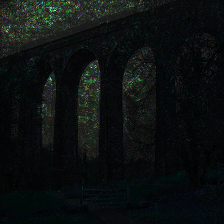
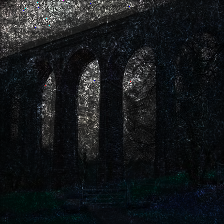
better picture

diff --git a/Project/optional task2/integrated_gradients.py b/Project/optional task2/integrated_gradients.py
@@ -50,21 +50,25 @@ if __name__ == "__main__":
     output = ig.attribute(input_tensor.unsqueeze(0))
     output = output.squeeze(0).abs()
     output /= output.max()
-    cv2.imwrite('./assets/integrated_gradients_resnet34_fireboat.png', np.uint8((output.permute(1, 2, 0).cpu().numpy() + 0.1) * image_np))
+    mask = np.sum(output.permute(1, 2, 0).abs().cpu().numpy(), 2)[:,:,np.newaxis] + 0.1
+    cv2.imwrite('./assets/integrated_gradients_resnet34_fireboat.png', np.uint8(mask * image_np))
 
     output = ig.attribute(input_tensor2.unsqueeze(0))
     output = output.squeeze(0).abs()
     output /= output.max()
-    cv2.imwrite('./assets/integrated_gradients_resnet34_viaduct.png', np.uint8((output.permute(1, 2, 0).cpu().numpy() + 0.1) * image2_np))
+    mask = np.sum(output.permute(1, 2, 0).abs().cpu().numpy(), 2)[:,:,np.newaxis] + 0.1
+    cv2.imwrite('./assets/integrated_gradients_resnet34_viaduct.png', np.uint8(mask * image2_np))
 
     ig2 = IntegratedGradients(model2)
 
     output = ig2.attribute(input_tensor.unsqueeze(0))
     output = output.squeeze(0).abs()
     output /= output.max()
-    cv2.imwrite('./assets/integrated_gradients_vgg19_fireboat.png', np.uint8((output.permute(1, 2, 0).cpu().numpy() + 0.1) * image_np))
+    mask = np.sum(output.permute(1, 2, 0).abs().cpu().numpy(), 2)[:,:,np.newaxis] + 0.1
+    cv2.imwrite('./assets/integrated_gradients_vgg19_fireboat.png', np.uint8(mask * image_np))
 
     output = ig2.attribute(input_tensor2.unsqueeze(0))
     output = output.squeeze(0).abs()
     output /= output.max()
-    cv2.imwrite('./assets/integrated_gradients_vgg19_viaduct.png', np.uint8((output.permute(1, 2, 0).cpu().numpy() + 0.1) * image2_np))
+    mask = np.sum(output.permute(1, 2, 0).abs().cpu().numpy(), 2)[:,:,np.newaxis] + 0.1
+    cv2.imwrite('./assets/integrated_gradients_vgg19_viaduct.png', np.uint8(mask * image2_np))
